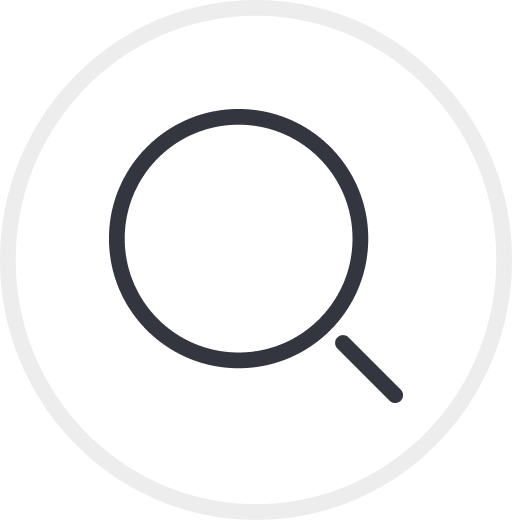
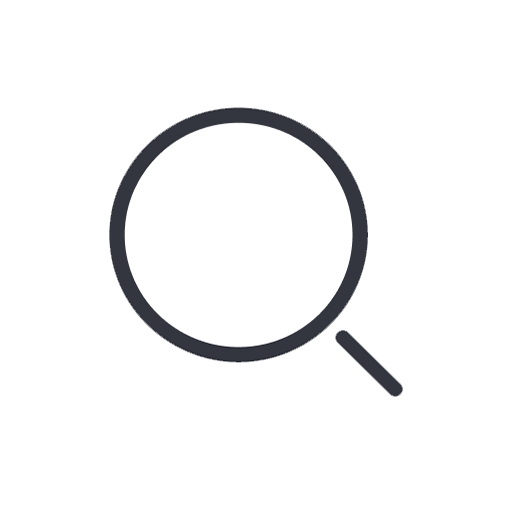
Updated pictures
- Fixed transparency bug through alpha-test.

- Added title and icon.

diff --git a/src/index.html b/src/index.html
@@ -6,7 +6,8 @@
 <!DOCTYPE html>
 <html>
 	<head>
-		
+		<title>VR Tour - UHI Shetland</title>
+		<link rel="icon" type="image/x-icon" href="img/uhi-logo-icon.png">
 		<!-- META TAGS START-->
 		<meta name="viewport" content="width=device-width, initial-scale=1.0" />
 		<!-- META TAGS END-->
@@ -64,6 +65,7 @@
 				<img id="informationpointBackground" src="img/Points/desc-box.png"/>
 				<img id="informationpointClose" src="img/Points/desc-close.png"/>
 				<img id="search" src="img/Points/search.png">
+				<img id="cursor" src="img/cursor.svg">
 				<!-- ASSESTS END-->
 
 				<!-- A-SKY START-->
@@ -72,15 +74,19 @@
 
 				<!-- CAMERA START-->
 				<a-camera id="camera" position="0 1.6 0" look-controls camera fov="90">
-					<a-entity id="cursor" cursor="fuse: true; fuseTimeout: 500" position="0 0 -1" geometry="primitive: ring; radiusInner: 0.02; radiusOuter: 0.03" material="color: black; shader: flat"></a-entity>
+					<a-entity cursor="fuse: true; fuseTimeout: 500" material="opacity: 0;" position="0 0 -1"></a-entity>
+					<a-image src="#cursor" position="0 0 -.99" alpha-test="0.4" scale="0.04 0.04 0.04"></a-image>
+
 					<a-entity position="-0.85 0.725 -1">
 						<a-image src="img/Points/location-pin.png" scale="0.06 0.06 0.06" position="-0.54 0 0"></a-image>
-						<a-entity id="location" text="value: Front-Entrance"></a-entity>
+						<a-entity id="location" text="value: Front-Entrance" alpha-test="0.4"></a-entity>
 					</a-entity>
+
 					<a-entity id="loading" text="value: Loading...;" position="0.41 -0.08 -1" visible="false"></a-entity>
 				</a-camera>
 				<!-- CAMERA END-->
 
+				<!-- QUICK NAVIGATION START -->
 				<a-entity position="0 1.6 -5" look-at="#camera" nav-controller>
 					<a-image src="#search" width="0.6" height="0.6" position="0 0 0" nav></a-image>
 
@@ -89,14 +95,14 @@
 						<a-entity 
 							position="-0.8 0.8 0" text="value: Front Entrance; align: center; width: 3"
 							geometry="primitive: plane; width: 1.2; height: 0.3"
-							material="color: #333; opacity: 0.4; transparent: true"
+							material="color: #000;"
 							hotpoint="room:img/Front-Entrance/GS__0107.JPG" nav
 						></a-entity>
 
 						<a-entity 
 							position="0.8 0.8 0" text="value: Cafeteria; align: center; width: 3"
 							geometry="primitive: plane; width: 1.2; height: 0.3"
-							material="color: #333; opacity: 0.4; transparent: true"
+							material="color: #000;"
 							hotpoint="room:img/Cafeteria/GS__0100.JPG" nav
 						></a-entity>
 						<!-- CORE - END -->
@@ -105,14 +111,14 @@
 						<a-entity 
 							position="-0.8 -0.2 0" text="value: B Block Top; align: center; width: 3"
 							geometry="primitive: plane; width: 1.2; height: 0.3"
-							material="color: #333; opacity: 0.4; transparent: true"
+							material="color: #000;"
 							hotpoint="room:img/B-Block-top floor/GS__0049.JPG" nav
 						></a-entity>
 
 						<a-entity 
 							position="-0.8 -0.6 0" text="value: B Block Bottom; align: center; width: 3"
 							geometry="primitive: plane; width: 1.2; height: 0.3"
-							material="color: #333; opacity: 0.4; transparent: true"
+							material="color: #000;"
 							hotpoint="room:img/B-Block-bottom/GS__0089.JPG" nav
 						></a-entity>
 						<!-- BLOCKS - END -->
@@ -121,19 +127,20 @@
 						<a-entity 
 							position="0.8 -0.2 0" text="value: Computing Dept; align: center; width: 3"
 							geometry="primitive: plane; width: 1.2; height: 0.3"
-							material="color: #333; opacity: 0.4; transparent: true"
+							material="color: #000;"
 							hotpoint="room:img/Computing-Department/GS__0044.JPG" nav
 						></a-entity>
 
 						<a-entity 
 							position="0.8 -0.6 0" text="value: Construction Dept; align: center; width: 3"
 							geometry="primitive: plane; width: 1.2; height: 0.3"
-							material="color: #333; opacity: 0.4; transparent: true"
+							material="color: #000;"
 							hotpoint="room:img/Construction-Department/GS__0062.JPG" nav
 						></a-entity>
 						<!-- DEPT - END -->
 					</a-entity>
 				</a-entity>
+				<!-- QUICK NAVIGATION END -->
 
 				<!-- OCULUS TOUCH-CONTROLS START -->
 				<a-entity laser-controls="hand: right"></a-entity>

diff --git a/src/classes/navigation.js b/src/classes/navigation.js
@@ -14,8 +14,6 @@ AFRAME.registerComponent('nav', {
 
 		function hideNav() {
 			dropdown.setAttribute("scale", "0 0 0");
-
-			toggle.setAttribute("nav", "cmd:open");
 		}
 
 		this.setNav = function() {
